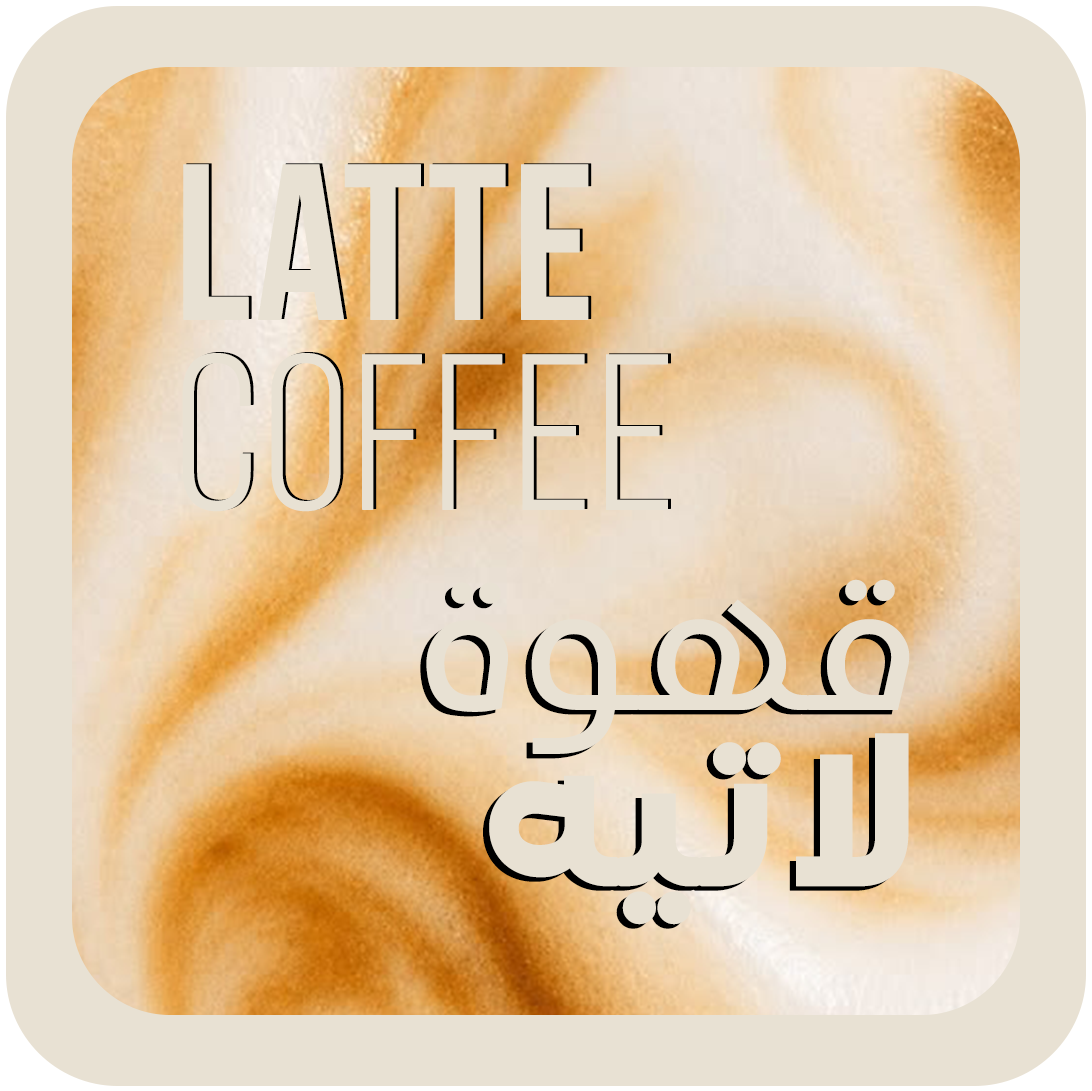
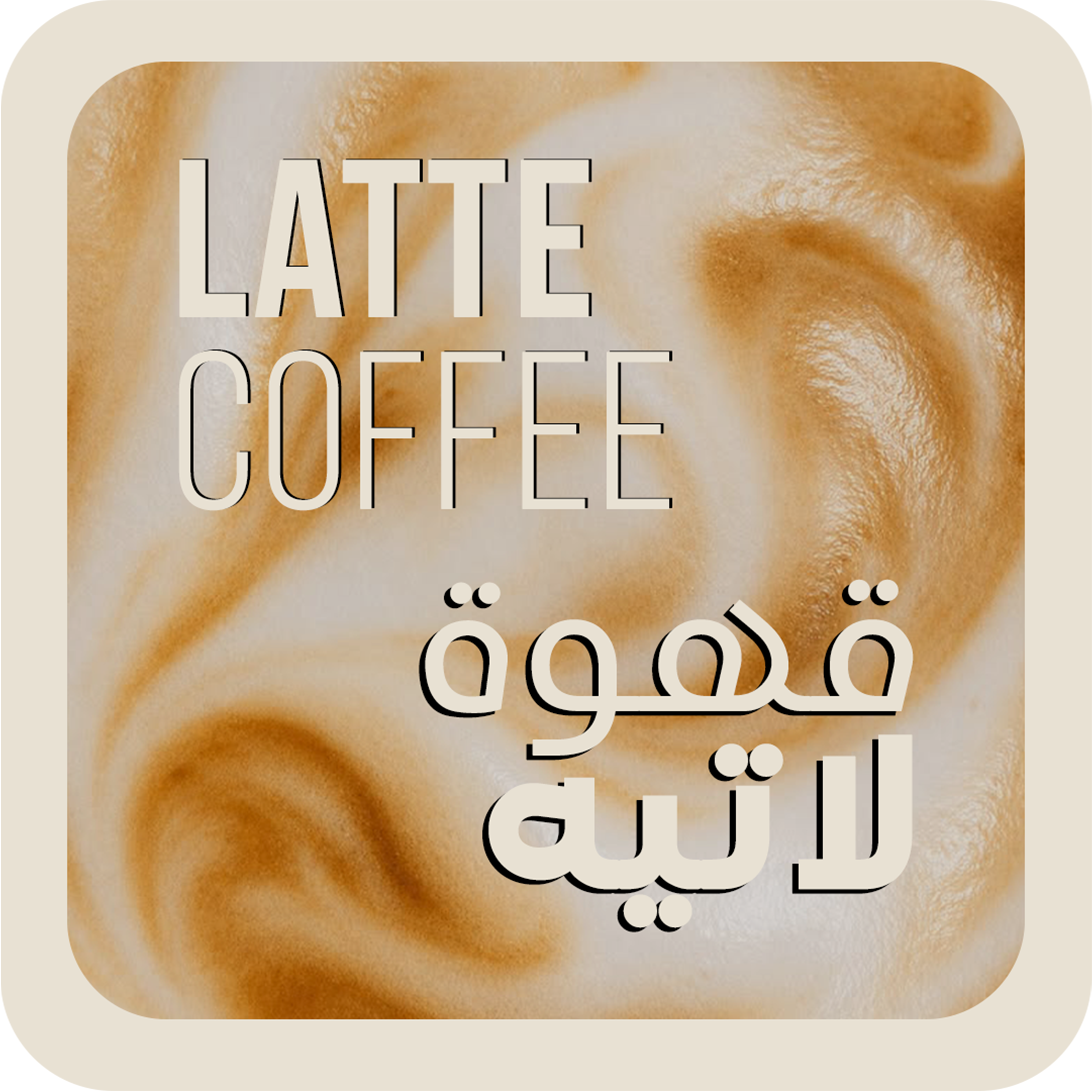
1

diff --git a/Lend.css b/Lend.css
@@ -41,7 +41,7 @@ body {
 /* ========== Blur Overlay ========== */
 body::before {
     content: '';
-    position: absolute;
+    position: fixed;
     top: 0;
     left: 0;
     width: 100%;
@@ -59,10 +59,11 @@ body::before {
     top: 50%;
     left: 50%;
     transform: translate(-50%, -50%);
-    width: min(98vw, 600px);
-    height: min(96vh, 900px);
+    width: min(85vw, 550px);
+    max-height: min(95vh, 900px);
+    aspect-ratio: 1080 / 1440;
     z-index: 2;
-    border-radius: 15px;
+    border-radius: clamp(12px, 2vw, 22px);
     box-shadow: 0 0 40px 15px rgba(0, 0, 0, 0.4);
     overflow: hidden;
     transition: opacity 0.8s ease;
@@ -78,7 +79,7 @@ body::before {
     z-index: 2;
     pointer-events: none;
     box-shadow: inset 0 0 30px 10px rgba(0, 0, 0, 0.5);
-    border-radius: 15px;
+    border-radius: clamp(12px, 2vw, 22px);
 }
 
 .poster-bg {
@@ -104,8 +105,8 @@ body::before {
 }
 
 .logo {
-    width: min(350px, 60vw);
-    height: min(350px, 60vw);
+    width: clamp(200px, 40vw, 350px);
+    height: clamp(200px, 40vw, 350px);
     object-fit: contain;
     display: block;
     transition: all 0.8s cubic-bezier(0.16, 1, 0.3, 1);
@@ -192,67 +193,100 @@ body::before {
     min-width: 100%;
 }
 
-/* ========== Tablet ========== */
-@media (max-width: 768px) {
-    .poster-wrapper {
-        width: min(100vw, 600px);
-        height: min(100vh, 900px);
-        border-radius: 0;
-    }
+/* ========== Pre-order Text ========== */
+.pre-order-text {
+    font-family: 'DG Agnadeen', sans-serif;
+    font-size: clamp(14px, 2vw, 18px);
+    font-weight: 400;
+    color: #E9E0D0;
+    text-shadow: 0 2px 10px rgba(0, 0, 0, 0.5);
+    margin-top: 25px;
+    opacity: 0.85;
+    animation: fadeInUp 0.8s ease forwards;
+}
 
-    .poster-wrapper::before {
-        border-radius: 0;
-        box-shadow: inset 0 0 20px 5px rgba(0, 0, 0, 0.4);
-    }
+/* ========== Contact Button ========== */
+.contact-btn {
+    display: inline-flex;
+    align-items: center;
+    justify-content: center;
+    margin-top: 20px;
+    padding: 12px 30px;
+    background: rgba(255, 255, 255, 0.1);
+    border: 2px solid #E9E0D0;
+    border-radius: 50px;
+    text-decoration: none;
+    cursor: pointer;
+    transition: all 0.4s ease;
+    backdrop-filter: blur(10px);
+    animation: fadeInUp 1s ease forwards;
+}
 
-    .logo {
-        width: min(280px, 50vw);
-        height: min(280px, 50vw);
-    }
+.contact-btn:hover {
+    background: #E9E0D0;
+}
 
-    .welcome-message {
-        top: 58%;
-    }
+.contact-number {
+    font-family: 'Bebas Neue', sans-serif;
+    font-size: clamp(16px, 2vw, 20px);
+    font-weight: 400;
+    color: #E9E0D0;
+    letter-spacing: 2px;
+    transition: color 0.4s ease;
+}
 
-    .option-btn {
-        max-width: 180px;
+.contact-btn:hover .contact-number {
+    color: #1a1a1a;
+}
+
+/* ========== Animations ========== */
+@keyframes fadeInUp {
+    from {
+        opacity: 0;
+        transform: translateY(15px);
+    }
+    to {
+        opacity: 1;
+        transform: translateY(0);
     }
 }
 
-/* ========== Mobile ========== */
-@media (max-width: 480px) {
+/* ========== Large Desktop ========== */
+@media (min-width: 1200px) {
     .poster-wrapper {
-        width: 100vw;
-        height: 100vh;
-        border-radius: 0;
+        width: min(60vw, 600px);
+        max-height: min(95vh, 950px);
     }
+}
 
-    .poster-wrapper::before {
-        border-radius: 0;
-        box-shadow: inset 0 0 15px 3px rgba(0, 0, 0, 0.3);
+/* ========== Desktop ========== */
+@media (min-width: 768px) and (max-width: 1199px) {
+    .poster-wrapper {
+        width: min(65vw, 550px);
+        max-height: min(90vh, 850px);
     }
+}
 
-    .logo {
-        width: min(220px, 55vw);
-        height: min(220px, 55vw);
+/* ========== Tablet ========== */
+@media (min-width: 481px) and (max-width: 767px) {
+    .poster-wrapper {
+        width: min(75vw, 500px);
+        max-height: min(85vh, 750px);
     }
+}
 
-    .welcome-message {
-        top: 60%;
+/* ========== Mobile Large ========== */
+@media (min-width: 376px) and (max-width: 480px) {
+    .poster-wrapper {
+        width: min(85vw, 420px);
+        max-height: min(85vh, 700px);
     }
+}
 
-    .options-container {
-        gap: 12px;
-    }
-
-    .option-btn {
-        min-width: 120px;
-        padding: 12px 25px;
-        max-width: 150px;
-    }
-
-    .option-btn-full {
-        min-width: 100%;
-        max-width: 100%;
+/* ========== Mobile Small ========== */
+@media (max-width: 375px) {
+    .poster-wrapper {
+        width: min(88vw, 350px);
+        max-height: min(80vh, 600px);
     }
 }

diff --git a/Lend.js b/Lend.js
@@ -10,6 +10,9 @@ const welcomeMessages = [
     'مرحباً في لند'
 ];
 
+// ========== Pre-order Message (Fixed) ==========
+const preOrderMessage = 'لا تنتظر — اطلب وأنت بالطريق';
+
 // ========== State ==========
 let welcomeShown = false;
 
@@ -37,12 +40,6 @@ function goToWelcome() {
     // إخفاء البوستر بنعومة
     posterWrapper.style.opacity = '0';
     posterWrapper.style.transition = 'opacity 0.8s ease';
-
-    // إظهار الخلفية الأصلية
-    document.body.style.backgroundImage = "url('MenuBG.jpeg')";
-    document.body.style.backgroundSize = 'cover';
-    document.body.style.backgroundPosition = 'center';
-    document.body.style.backgroundRepeat = 'no-repeat';
 
     // إظهار اللوجو
     logoContainer.style.opacity = '1';
@@ -94,6 +91,10 @@ function showWelcomeMessage() {
             <button class="option-btn" id="coffeeBtn">قهوة</button>
             <button class="option-btn option-btn-full" id="gatheringBtn">الجمعات</button>
         </div>
+        <p class="pre-order-text">${preOrderMessage}</p>
+        <a href="tel:0566040575" class="contact-btn">
+            <span class="contact-number">0566040575</span>
+        </a>
     `;
 
     document.body.appendChild(welcomeDiv);

diff --git a/dessert.css b/dessert.css
@@ -283,4 +283,17 @@ body {
     .back-btn {
         padding: 8px 12px;
     }
+    body::before {
+    content: '';
+    position: fixed;
+    top: 0;
+    left: 0;
+    width: 100%;
+    height: 100%;
+    background: rgba(0, 0, 0, 0.5);
+    backdrop-filter: blur(10px);
+    -webkit-backdrop-filter: blur(10px);
+    z-index: 1;
+    pointer-events: none;
+}
 }

diff --git a/gathering.css b/gathering.css
@@ -221,4 +221,17 @@ body {
     .back-btn {
         padding: 8px 12px;
     }
+    body::before {
+    content: '';
+    position: fixed;
+    top: 0;
+    left: 0;
+    width: 100%;
+    height: 100%;
+    background: rgba(0, 0, 0, 0.5);
+    backdrop-filter: blur(10px);
+    -webkit-backdrop-filter: blur(10px);
+    z-index: 1;
+    pointer-events: none;
+}
 }

diff --git a/menu.css b/menu.css
@@ -475,4 +475,17 @@ body {
     .back-btn {
         padding: 8px 12px;
     }
+    body::before {
+    content: '';
+    position: fixed;
+    top: 0;
+    left: 0;
+    width: 100%;
+    height: 100%;
+    background: rgba(0, 0, 0, 0.5);
+    backdrop-filter: blur(10px);
+    -webkit-backdrop-filter: blur(10px);
+    z-index: 1;
+    pointer-events: none;
+}
 }

diff --git a/offers.css b/offers.css
@@ -221,4 +221,17 @@ body {
     .back-btn {
         padding: 8px 12px;
     }
+    body::before {
+    content: '';
+    position: fixed;
+    top: 0;
+    left: 0;
+    width: 100%;
+    height: 100%;
+    background: rgba(0, 0, 0, 0.5);
+    backdrop-filter: blur(10px);
+    -webkit-backdrop-filter: blur(10px);
+    z-index: 1;
+    pointer-events: none;
+}
 }
